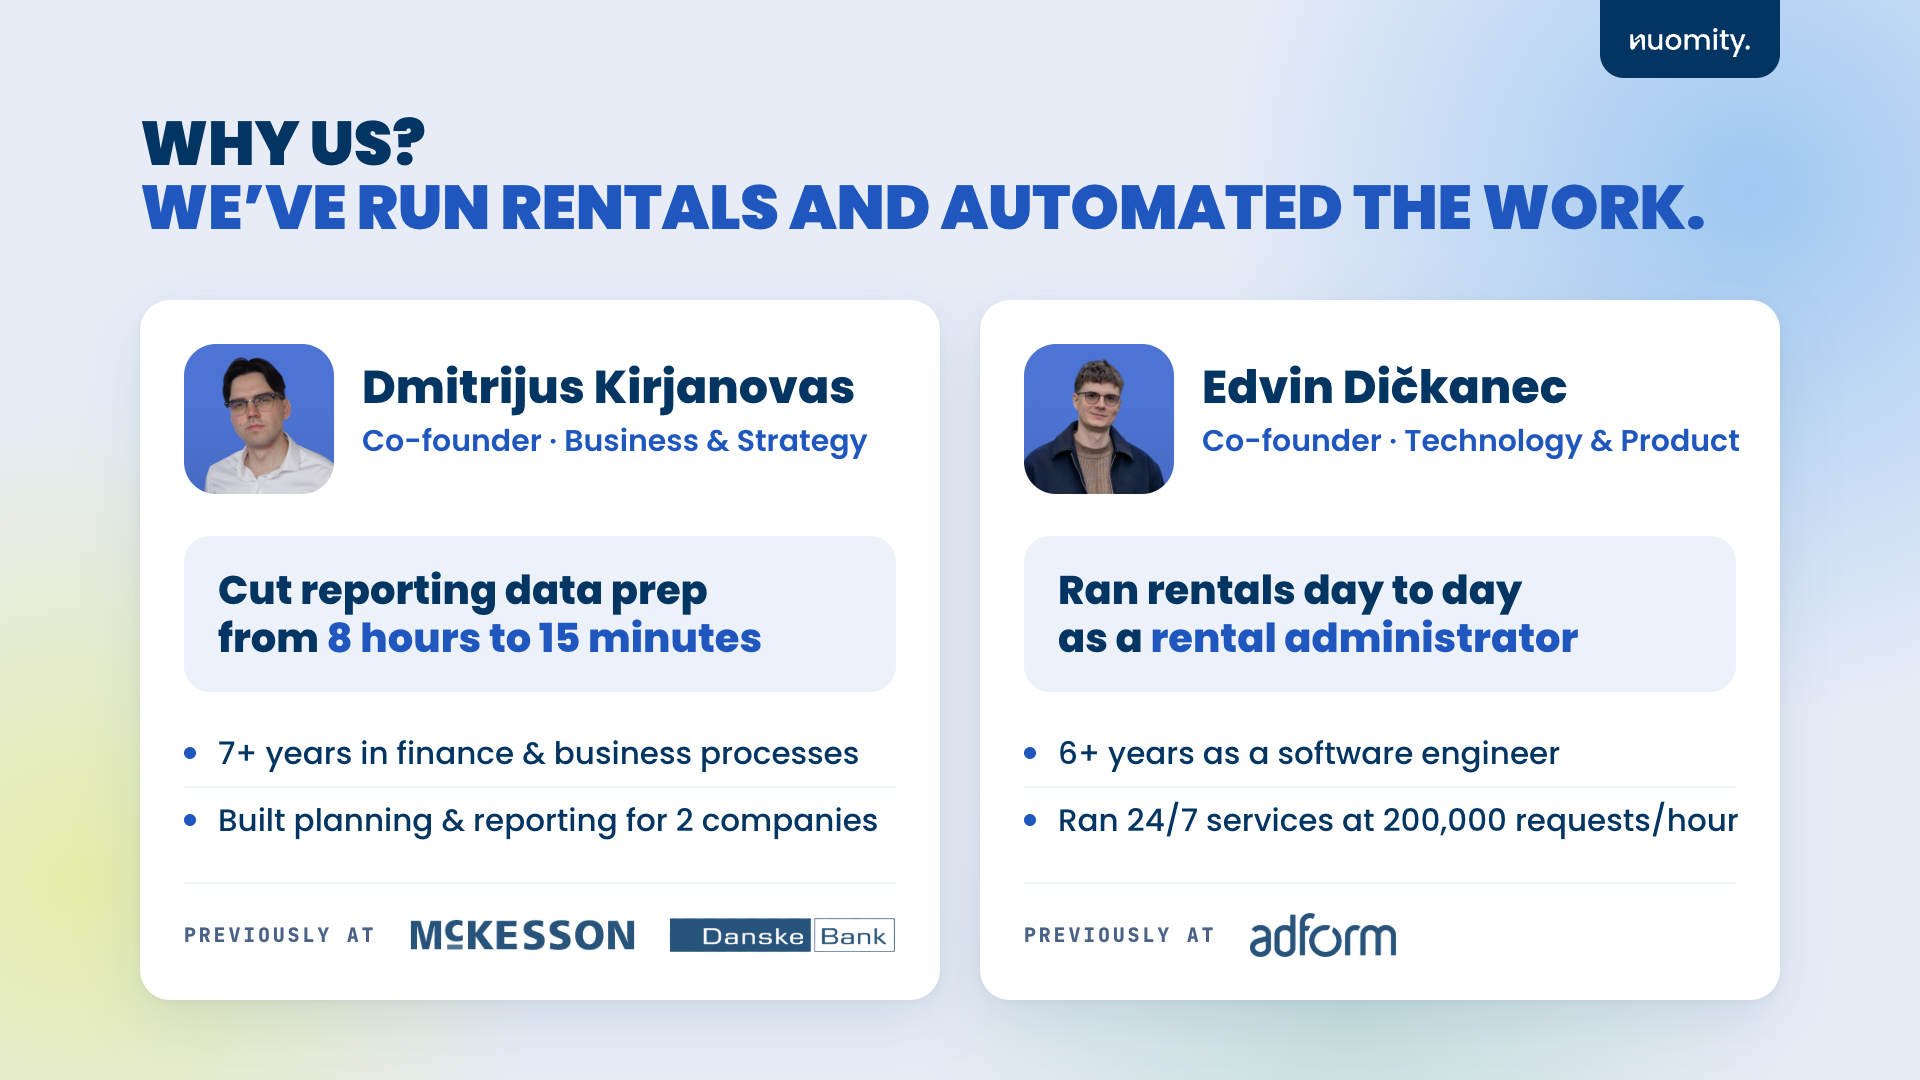
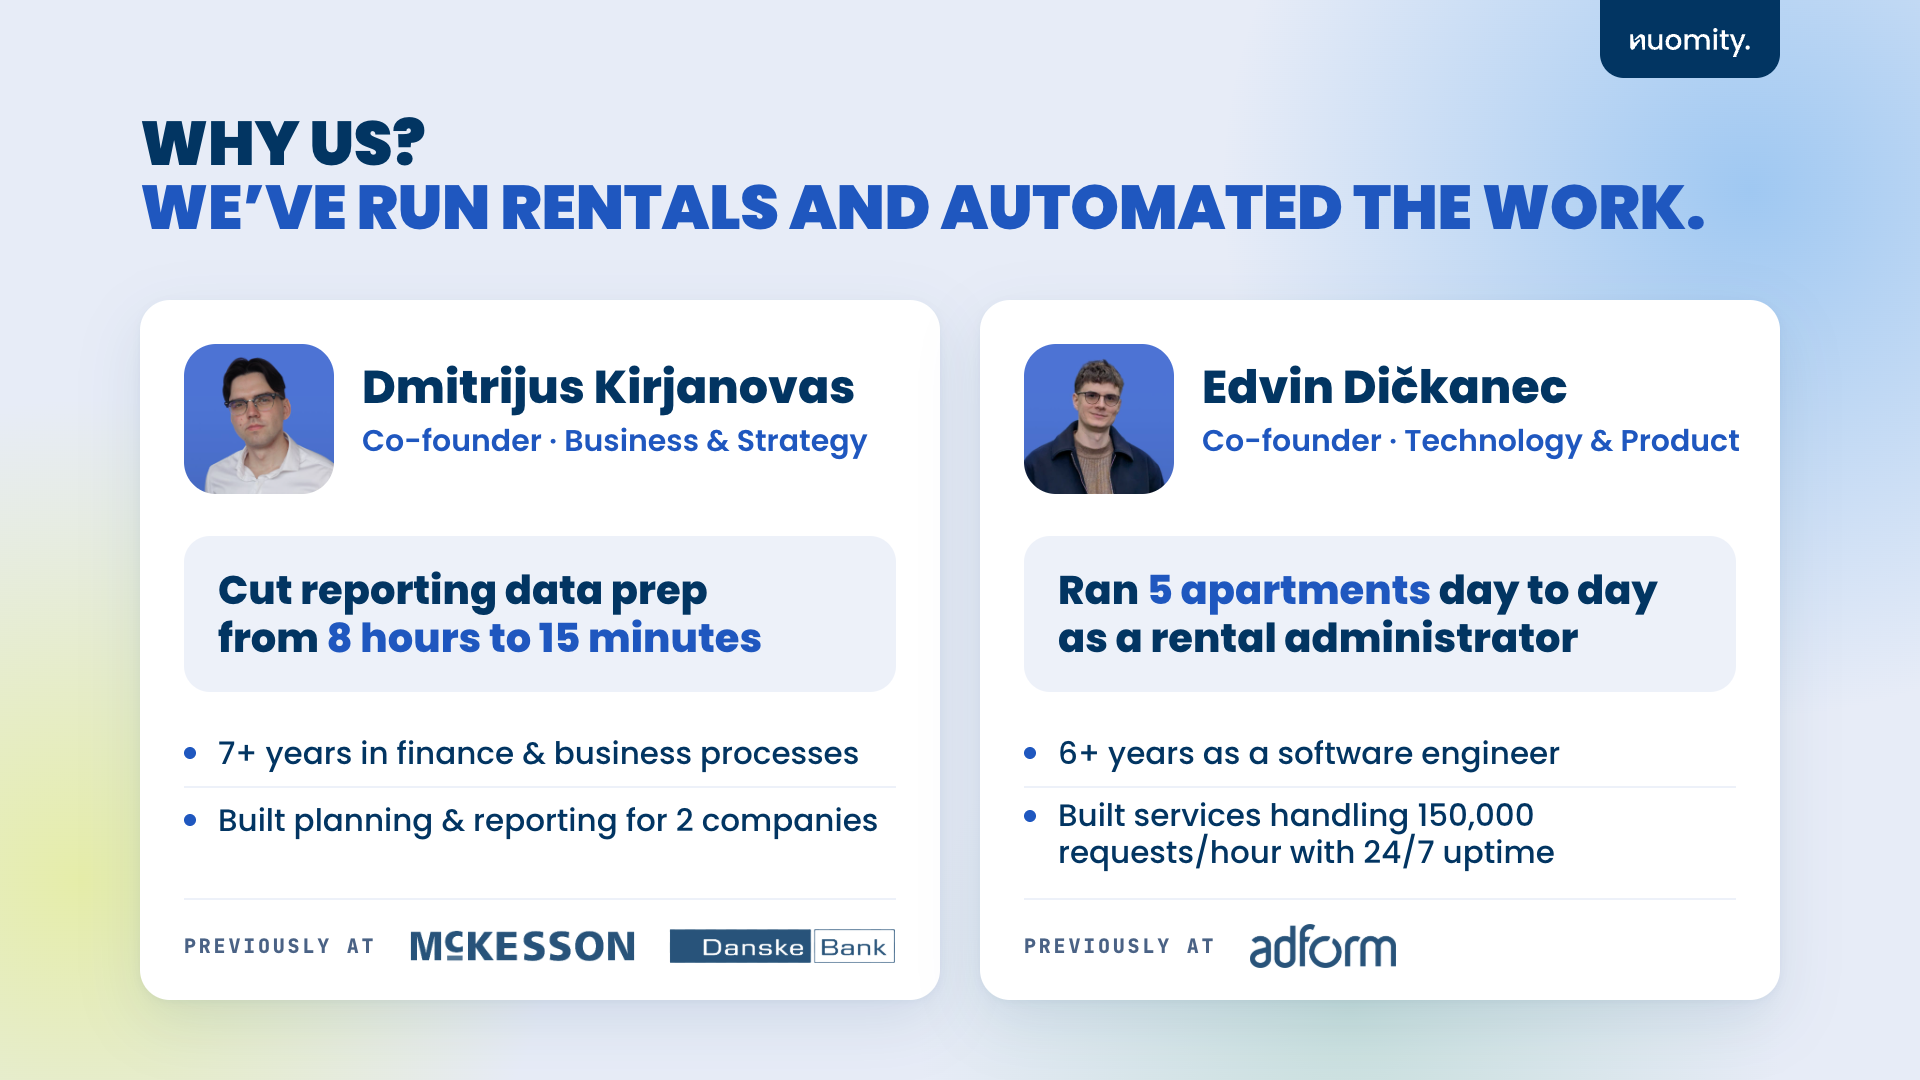
Add files via upload

diff --git a/pitch/Speaker notes.html b/pitch/Speaker notes.html
@@ -9,5 +9,5 @@
 </style></head><body>
 <h1>Nuomity · ROCKIT Progress Days pitch</h1>
 <div class="meta">Speaker notes · 9 slides · ▸ click = press → / Space / clicker</div>
-<section><h2><span>01</span> Hook</h2><p>~18 s. &quot;Renting out an apartment gives you a second job. This is a landlord&#x27;s phone on a Tuesday evening.&quot; <b class="clk">▸ click</b> (notifications pour in) &quot;Is it still available? Can I come to a viewing? Do you accept pets? And the rent hasn&#x27;t arrived. Plus 23 more.&quot; <b class="clk">▸ click</b> &quot;Research backs this up: in the UK, small landlords spend 18 hours a month managing their rentals.&quot; <b class="clk">▸ click</b> &quot;In our interviews we heard it more than once: most hours go to applicants who were never a fit.&quot; Don&#x27;t mention Nuomity yet. If asked: Pegasus Insight, Landlord Trends, Oct 2026, landlords with 1–5 properties; all landlords average 33 h a month, self-managing landlords 51 h.</p></section><section><h2><span>02</span> Product demo</h2><p>~21 s, the video starts by itself on the same phone: talk over it, click on when it ends. &quot;Nuomity turns those 28 messages into one link. Applicants apply through it and land in one list, book a viewing themselves, get screened, and the lease is signed digitally. The landlord only gets a few emails along the way. This is the MVP we&#x27;re building now.&quot;</p></section><section><h2><span>03</span> AI vision</h2><p>~20 s, the key slide. &quot;Our vision: an assistant that works for you. Imagine starting your day with this.&quot; <b class="clk">▸ click</b> &quot;While you were away, it answered applicant questions, scheduled viewings and reminded your tenant about rent.&quot; <b class="clk">▸ click</b> &quot;Two applicants are ready for your review.&quot; <b class="clk">▸ click</b> &quot;We get there in three steps: first one system for the whole rental, then core automation of the routine, then the assistant. You still make the decisions.&quot; Say clearly that the assistant is the future product vision.</p></section><section><h2><span>04</span> Market & model</h2><p>~22 s. &quot;Our model: it&#x27;s free to start, including contracts and e-signing. Landlords pay EUR 14.90 for each applicant they screen, and a flat EUR 10 a month for rental management.&quot; <b class="clk">▸ click</b> &quot;So one rental is worth about EUR 135 a year to us.&quot; <b class="clk">▸ click</b> &quot;Our target customers: almost 35 thousand landlords in Lithuania rent out homes with a business certificate. That&#x27;s about 4.7 million euros a year, counting just one rental each. And Latvia, Estonia and Poland have the same problem.&quot; This is the planned pricing. If asked: 34,888 = people with a VMI business certificate for residential rental in 2025, the landlords who run renting as a business; overall, 126 thousand people declared rental income from housing in 2023 (VMI), so the wider market is larger. EUR 135 = one new tenant a year, screened once (EUR 14.90) + 12 months of management (EUR 120); insurance commissions are under exploration and not counted.</p></section><section><h2><span>05</span> Competition</h2><p>~22 s. &quot;Others cover the listing and the lease. OpenRent in the UK and Rendin in Estonia list the home, and they, like Zent and Owntly here in Lithuania, handle screening, contracts and rent. Landlords pay for it.&quot; <b class="clk">▸ click</b> &quot;But the hours go in between: answering applicants and arranging viewings. None of them books viewings for the landlord.&quot; <b class="clk">▸ click</b> &quot;That is where Nuomity starts, from the first application to the signed contract, and rental management comes next.&quot; If asked: OpenRent publishes the listing and handles referencing (add-on), digital tenancy agreements and rent collection; enquiries go to the landlord, who arranges and conducts viewings. Rendin: free listing with ID-screened candidates, rent guarantee instead of a deposit, digital contracts. Zent (an Aruodas.lt project): insurance instead of a deposit, credit check, e-contract, rent paid out on schedule. Owntly: starts once a tenant is found; screening, e-signing, rent tracking, utilities, chat. Aruodas.lt is a listing portal, not a competitor: enquiries arrive as messages, so it is a channel for us. Abroad, EliseAI (US) automates leasing with AI for large operators. Sources: OpenRent (Wikipedia, 2022; August 2026 review), Rendin (Vestbee, 2024; rendin.ee), zent.lt, owntly.com (Oct 2026).</p></section><section><h2><span>06</span> Early traction</h2><p>~18 s. &quot;We build Nuomity with landlords, not just for them: 20+ are already on our waitlist, and we ran 5 landlord deep dives covering the whole rental process. We grow freemium: the free tools, from the application link to the e-signed contract, bring landlords in. Then both sides pay: landlords for screening, from the pilot, and rental management next; tenants for rental insurance through a partner, which we are exploring.&quot; <b class="clk">▸ click</b> &quot;In early November we run 20 pilots with landlords to stress-test our process in real life and measure how much time it really saves.&quot; If asked why you need pilot landlords with a waitlist: the waitlist is sign-ups; the pilot needs landlords who actively rent out with Nuomity in November.</p></section><section><h2><span>07</span> Team</h2><p>~20 s. &quot;Why us? I&#x27;m Dmitrijus: 7+ years in finance and business processes, at McKesson and Danske Bank. I cut reporting data prep from 8 hours to 15 minutes. Edvin, 6+ years as a software engineer at Adform, built and ran distributed services handling up to 200,000 requests an hour with 24/7 availability, and ran rentals day to day as a rental administrator. We know the work, and how to automate it.&quot;</p></section><section><h2><span>08</span> Ask</h2><p>~12 s. &quot;How you can help: introductions to landlords with several rentals, to property managers and brokerages, and mentors in proptech, go-to-market and pricing.&quot; <b class="clk">▸ click</b> &quot;Talk to us after the session, or write to dmitrijus@nuomity.lt.&quot;</p></section><section><h2><span>09</span> Closing</h2><p>~10 s. &quot;The future of renting isn&#x27;t another dashboard.&quot; <b class="clk">▸ click</b> &quot;It&#x27;s an assistant who does the job, so the landlord no longer has a second one. We&#x27;re Nuomity. Thank you.&quot;</p></section>
+<section><h2><span>01</span> Hook</h2><p>~18 s. &quot;Renting out an apartment gives you a second job. This is a landlord&#x27;s phone on a Tuesday evening.&quot; <b class="clk">▸ click</b> (notifications pour in) &quot;Is it still available? Can I come to a viewing? Do you accept pets? And the rent hasn&#x27;t arrived. Plus 23 more.&quot; <b class="clk">▸ click</b> &quot;Research backs this up: in the UK, small landlords spend 18 hours a month managing their rentals.&quot; <b class="clk">▸ click</b> &quot;In our interviews we heard it more than once: most hours go to applicants who were never a fit.&quot; Don&#x27;t mention Nuomity yet. If asked: Pegasus Insight, Landlord Trends, Oct 2026, landlords with 1–5 properties; all landlords average 33 h a month, self-managing landlords 51 h.</p></section><section><h2><span>02</span> Product demo</h2><p>~21 s, the video starts by itself on the same phone: talk over it, click on when it ends. &quot;Nuomity turns those 28 messages into one link. Applicants apply through it and land in one list, book a viewing themselves, get screened, and the lease is signed digitally. The landlord only gets a few emails along the way. This is the MVP we&#x27;re building now.&quot;</p></section><section><h2><span>03</span> AI vision</h2><p>~20 s, the key slide. &quot;Our vision: an assistant that works for you. Imagine starting your day with this.&quot; <b class="clk">▸ click</b> &quot;While you were away, it answered applicant questions, scheduled viewings and reminded your tenant about rent.&quot; <b class="clk">▸ click</b> &quot;Two applicants are ready for your review.&quot; <b class="clk">▸ click</b> &quot;We get there in three steps: first one system for the whole rental, then core automation of the routine, then the assistant. You still make the decisions.&quot; Say clearly that the assistant is the future product vision.</p></section><section><h2><span>04</span> Market & model</h2><p>~22 s. &quot;Our model: it&#x27;s free to start, including contracts and e-signing. Landlords pay EUR 14.90 for each applicant they screen, and a flat EUR 10 a month for rental management.&quot; <b class="clk">▸ click</b> &quot;So one rental is worth about EUR 135 a year to us.&quot; <b class="clk">▸ click</b> &quot;Our target customers: almost 35 thousand landlords in Lithuania rent out homes with a business certificate. That&#x27;s about 4.7 million euros a year, counting just one rental each. And Latvia, Estonia and Poland have the same problem.&quot; This is the planned pricing. If asked: 34,888 = people with a VMI business certificate for residential rental in 2025, the landlords who run renting as a business; overall, 126 thousand people declared rental income from housing in 2023 (VMI), so the wider market is larger. EUR 135 = one new tenant a year, screened once (EUR 14.90) + 12 months of management (EUR 120); insurance commissions are under exploration and not counted.</p></section><section><h2><span>05</span> Competition</h2><p>~22 s. &quot;Others cover the listing and the lease. OpenRent in the UK and Rendin in Estonia list the home, and they, like Zent and Owntly here in Lithuania, handle screening, contracts and rent. Landlords pay for it.&quot; <b class="clk">▸ click</b> &quot;But the hours go in between: answering applicants and arranging viewings. None of them books viewings for the landlord.&quot; <b class="clk">▸ click</b> &quot;That is where Nuomity starts, from the first application to the signed contract, and rental management comes next.&quot; If asked: OpenRent publishes the listing and handles referencing (add-on), digital tenancy agreements and rent collection; enquiries go to the landlord, who arranges and conducts viewings. Rendin: free listing with ID-screened candidates, rent guarantee instead of a deposit, digital contracts. Zent (an Aruodas.lt project): insurance instead of a deposit, credit check, e-contract, rent paid out on schedule. Owntly: starts once a tenant is found; screening, e-signing, rent tracking, utilities, chat. Aruodas.lt is a listing portal, not a competitor: enquiries arrive as messages, so it is a channel for us. Abroad, EliseAI (US) automates leasing with AI for large operators. Sources: OpenRent (Wikipedia, 2022; August 2026 review), Rendin (Vestbee, 2024; rendin.ee), zent.lt, owntly.com (Oct 2026).</p></section><section><h2><span>06</span> Early traction</h2><p>~18 s. &quot;We build Nuomity with landlords, not just for them: 20+ are already on our waitlist, and we ran 5 landlord deep dives covering the whole rental process. We grow freemium: the free tools, from the application link to the e-signed contract, bring landlords in. Then both sides pay: landlords for screening, from the pilot, and rental management next; tenants for rental insurance through a partner, which we are exploring.&quot; <b class="clk">▸ click</b> &quot;In early November we run 20 pilots with landlords to stress-test our process in real life and measure how much time it really saves.&quot; If asked why you need pilot landlords with a waitlist: the waitlist is sign-ups; the pilot needs landlords who actively rent out with Nuomity in November.</p></section><section><h2><span>07</span> Team</h2><p>~20 s. &quot;Why us? I&#x27;m Dmitrijus: 7+ years in finance and business processes, at McKesson and Danske Bank. I cut reporting data prep from 8 hours to 15 minutes. Edvin, 6+ years as a software engineer at Adform, built services handling 150,000 requests an hour with 24/7 uptime, and ran 5 apartments day to day as a rental administrator. We know the work, and how to automate it.&quot;</p></section><section><h2><span>08</span> Ask</h2><p>~12 s. &quot;How you can help: introductions to landlords with several rentals, to property managers and brokerages, and mentors in proptech, go-to-market and pricing.&quot; <b class="clk">▸ click</b> &quot;Talk to us after the session, or write to dmitrijus@nuomity.lt.&quot;</p></section><section><h2><span>09</span> Closing</h2><p>~10 s. &quot;The future of renting isn&#x27;t another dashboard.&quot; <b class="clk">▸ click</b> &quot;It&#x27;s an assistant who does the job, so the landlord no longer has a second one. We&#x27;re Nuomity. Thank you.&quot;</p></section>
 </body></html>

diff --git a/pitch/composition/index.html b/pitch/composition/index.html
@@ -244,8 +244,10 @@
       .fcard .facts { position: absolute; left: 44px; right: 44px; top: 420px; list-style: none; }
       .fcard .facts li { display: flex; align-items: center; gap: 22px; height: 66px; font-weight: 500; font-size: 31px; color: var(--navy); white-space: nowrap; }
       .fcard .facts li + li { border-top: 2px solid #edf1f9; }
+      .fcard .facts li.two { height: auto; padding: 9px 0; line-height: 1.2; white-space: normal; }
+      .fcard .facts li.two i { align-self: flex-start; margin-top: 13px; }
       .fcard .facts i { width: 12px; height: 12px; border-radius: 50%; background: var(--royal); flex: none; }
-      .prev { position: absolute; left: 44px; right: 44px; bottom: 36px; height: 82px; z-index: 1; padding-top: 22px; border-top: 2px solid #edf1f9; display: flex; align-items: center; gap: 34px; }
+      .prev { position: absolute; left: 44px; right: 44px; bottom: 26px; height: 76px; z-index: 1; padding-top: 18px; border-top: 2px solid #edf1f9; display: flex; align-items: center; gap: 34px; }
       .prev .mono { font-size: 20px; color: var(--ink); white-space: nowrap; }
       .prev img { display: block; opacity: 0.85; }
       .fcard li .check { width: 40px; height: 40px; margin-top: 1px; }
@@ -371,7 +373,7 @@
       "fragments": [
         61.2
       ],
-      "notes": "~20 s. \"Why us? I'm Dmitrijus: 7+ years in finance and business processes, at McKesson and Danske Bank. I cut reporting data prep from 8 hours to 15 minutes. Edvin, 6+ years as a software engineer at Adform, built and ran distributed services handling up to 200,000 requests an hour with 24/7 availability, and ran rentals day to day as a rental administrator. We know the work, and how to automate it.\""
+      "notes": "~20 s. \"Why us? I'm Dmitrijus: 7+ years in finance and business processes, at McKesson and Danske Bank. I cut reporting data prep from 8 hours to 15 minutes. Edvin, 6+ years as a software engineer at Adform, built services handling 150,000 requests an hour with 24/7 uptime, and ran 5 apartments day to day as a rental administrator. We know the work, and how to automate it.\""
     },
     {
       "sceneId": "ask",
@@ -609,10 +611,10 @@
           <div class="fcard card team-card" style="left: 980px">
             <img src="assets/founder-edvin.jpg" alt="Edvin Dičkanec" />
             <div class="who"><div class="name">Edvin Dičkanec</div><div class="role">Co-founder · Technology &amp; Product</div></div>
-            <div class="hl"><p>Ran rentals day to day as a <b>rental administrator</b></p></div>
+            <div class="hl"><p>Ran <b>5 apartments</b> day to day<br />as a rental administrator</p></div>
             <ul class="facts">
               <li><i></i>6+ years as a software engineer</li>
-              <li><i></i>Ran 24/7 services at 200,000 requests/hour</li>
+              <li class="two"><i></i><span>Built services handling 150,000<br />requests/hour with 24/7 uptime</span></li>
             </ul>
             <div class="prev"><span class="mono">Previously at</span><img src="assets/co-adform.png" alt="Adform" style="height: 44px" /></div>
           </div>

diff --git a/pitch/index.html b/pitch/index.html
@@ -78,7 +78,7 @@
       "fragments": [
         61.2
       ],
-      "notes": "~20 s. \"Why us? I'm Dmitrijus: 7+ years in finance and business processes, at McKesson and Danske Bank. I cut reporting data prep from 8 hours to 15 minutes. Edvin, 6+ years as a software engineer at Adform, built and ran distributed services handling up to 200,000 requests an hour with 24/7 availability, and ran rentals day to day as a rental administrator. We know the work, and how to automate it.\""
+      "notes": "~20 s. \"Why us? I'm Dmitrijus: 7+ years in finance and business processes, at McKesson and Danske Bank. I cut reporting data prep from 8 hours to 15 minutes. Edvin, 6+ years as a software engineer at Adform, built services handling 150,000 requests an hour with 24/7 uptime, and ran 5 apartments day to day as a rental administrator. We know the work, and how to automate it.\""
     },
     {
       "sceneId": "ask",
